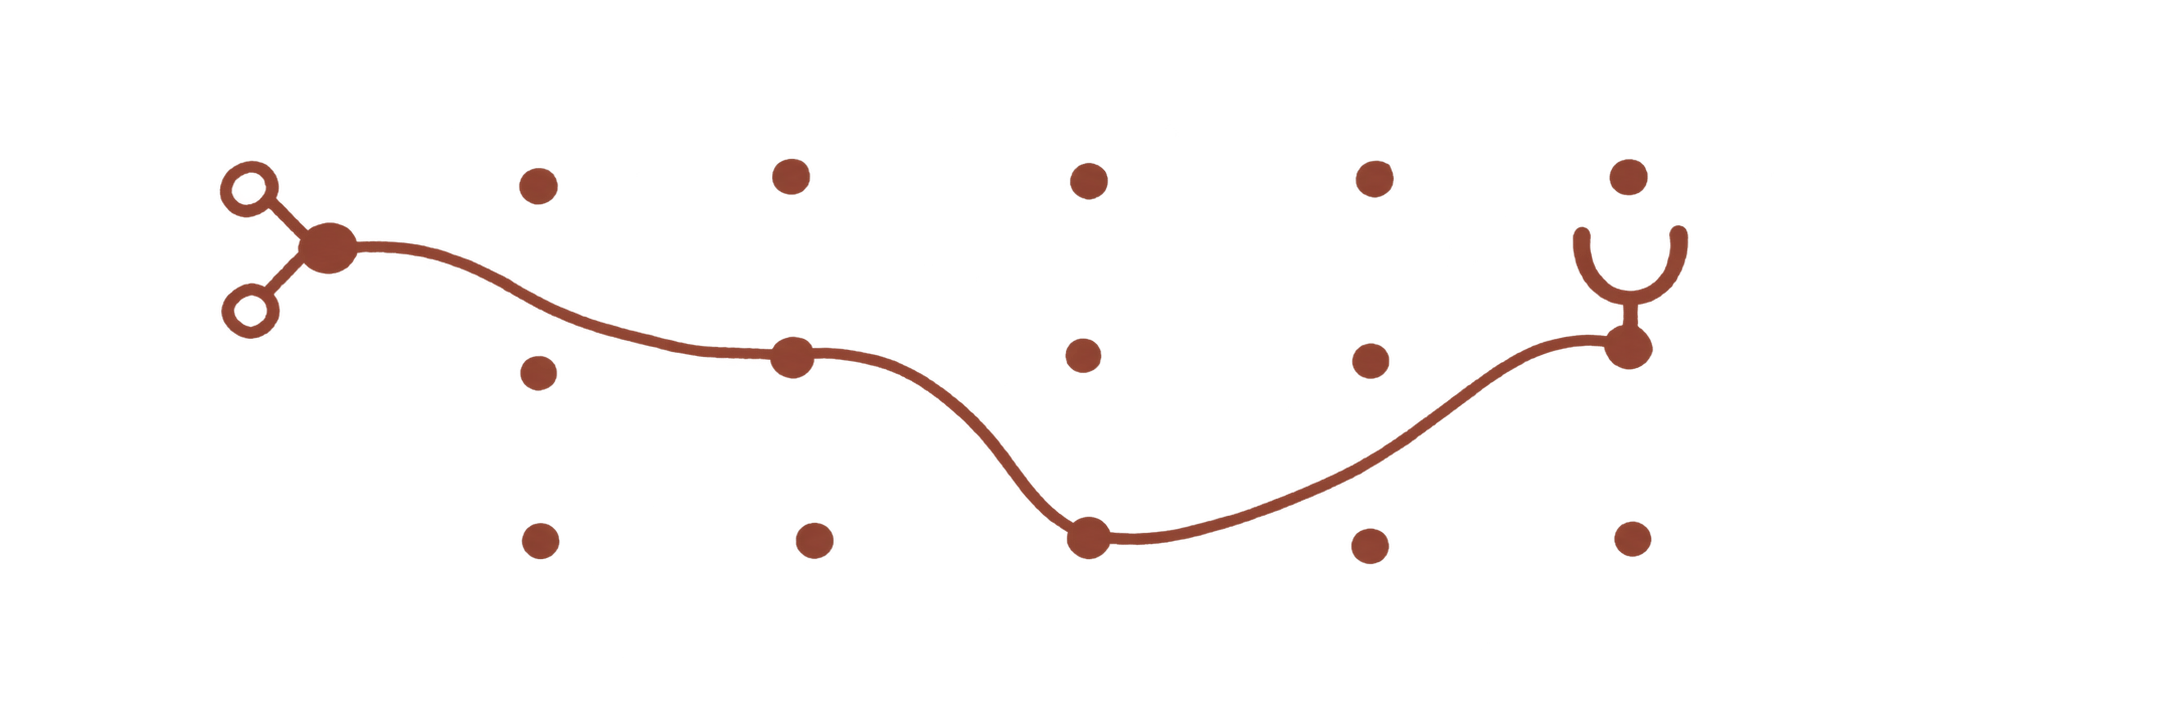
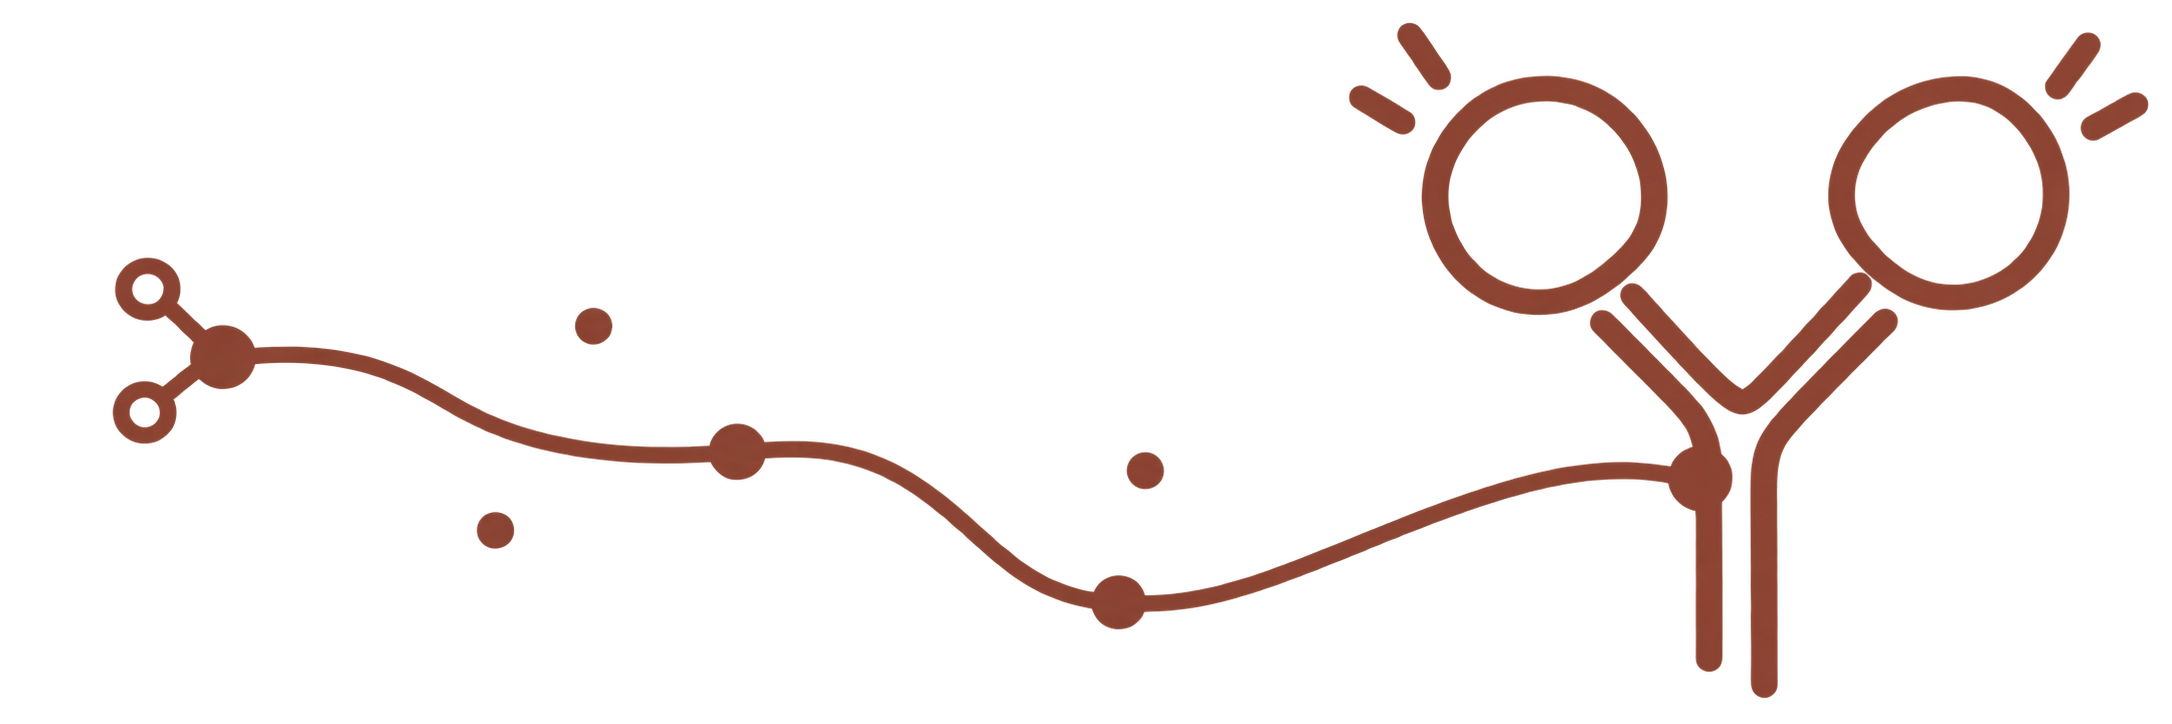
Refine antibody motif and commensal design question

diff --git a/index.md b/index.md
@@ -28,7 +28,7 @@ summary: Seyone Chithrananda is a Stanford Bioengineering PhD student working on
   <p>In bacteria, I’m interested in the molecules that sharpen an immune response and those that blunt it. The Fischbach lab’s work on <a href="https://doi.org/10.1038/s41586-024-08489-4">commensal vaccines</a> and <a href="https://doi.org/10.1038/s41586-023-06431-8">defined gut communities such as hCom2</a> offers ways to study both sides—from adjuvant-like factors to immunoevasins and enzymes that degrade host defenses.</p>
   <ol class="research-list">
     <li><strong>Discover.</strong> Can sequence- and structure-guided genome mining reveal divergent effector ORFs, the host targets they act on, and new ligands of the innate immune repertoire?</li>
-    <li><strong>Design.</strong> Can we engineer proteins—adjuvants and antibody fragments that deliver antigen directly to MHC-II—that immunize effectively without engaging the inflammatory arm of innate immunity, so the response is shaped rather than inflamed and the commensal niche survives it?</li>
+    <li><strong>Design.</strong> Can we engineer proteins—adjuvants and antibody fragments that deliver antigen directly to MHC-II—that immunize effectively without engaging the inflammatory arm of innate immunity, so the response is better targeted and does not destroy the commensal niche?</li>
     <li><strong>Measure.</strong> How can we screen for immune tolerance and immunodominance—what the immune system overlooks and what it responds to most strongly?</li>
   </ol>
 </section>
